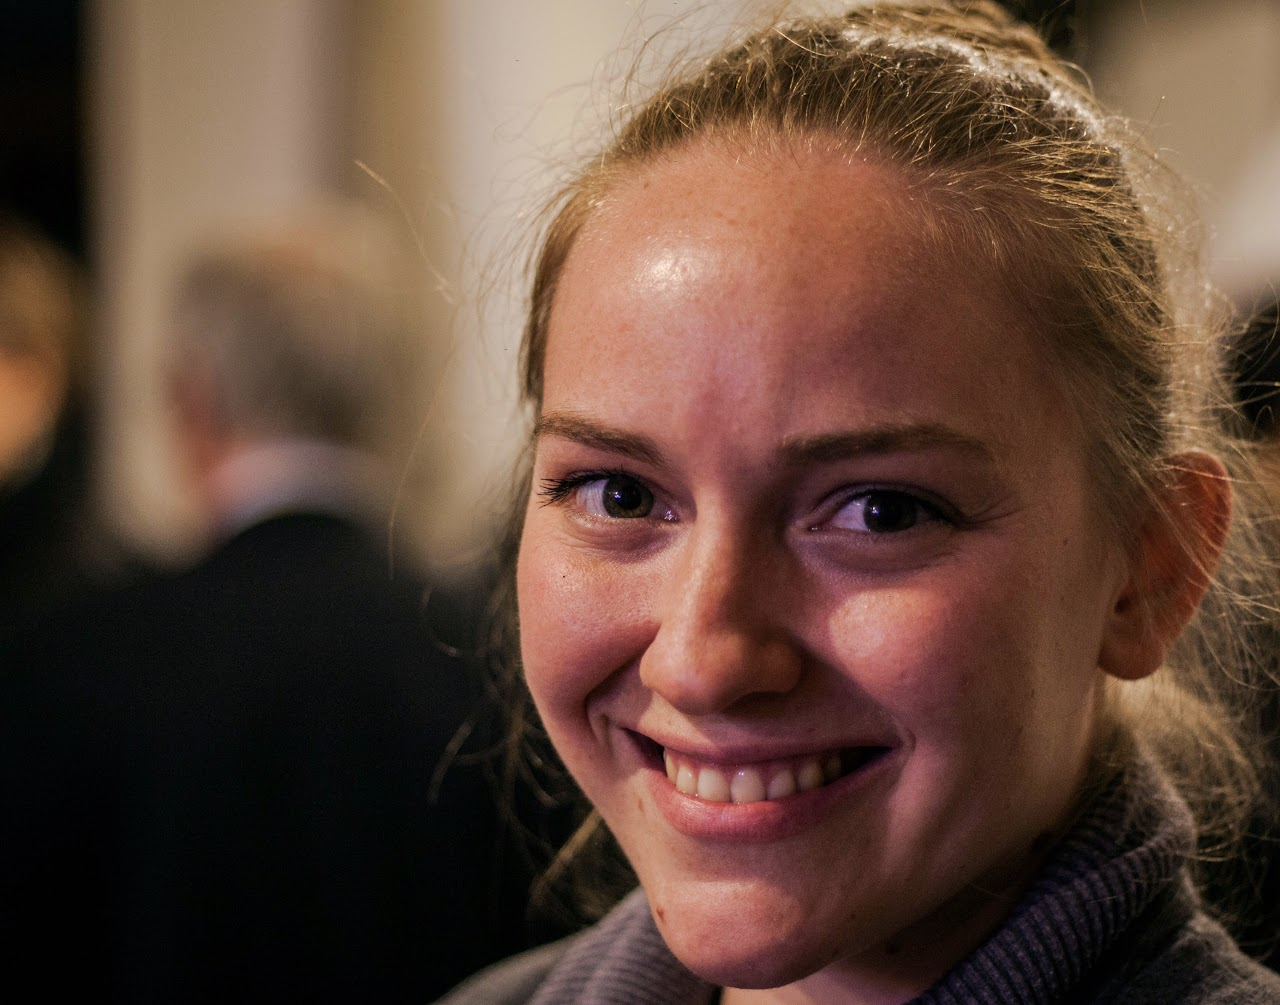
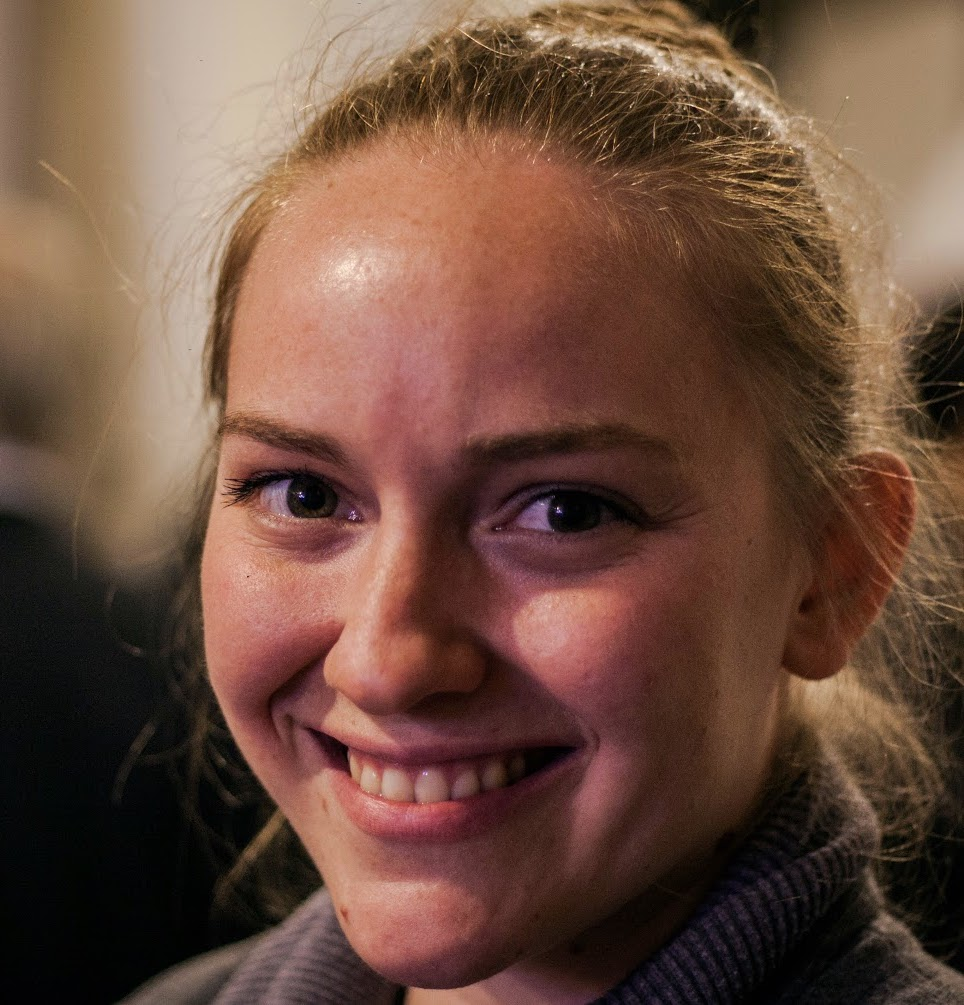
page

diff --git a/_layouts/default.html b/_layouts/default.html
@@ -16,7 +16,7 @@
     <div class="wrapper">
       <header>
         <!--<h1 class="header" style="border-bottom: none; padding-bottom: none">Katja Tuma</h1>-->
-		<img src="fig.jpeg" style="width: 100%; padding-bottom: none;">
+		<img src="katja.jpeg" style="width: 100%; padding-bottom: none; display: block;">
 		<p class="header">Assistant Professor @ <a href="https://www.cs.vu.nl/en/">VU</a></p>
         <ul>
 			<li><a href="https://scholar.google.se/citations?user=5lOAGbwAAAAJ&hl=en&oi=ao" target="_blank">Google Scholar</a></li>
